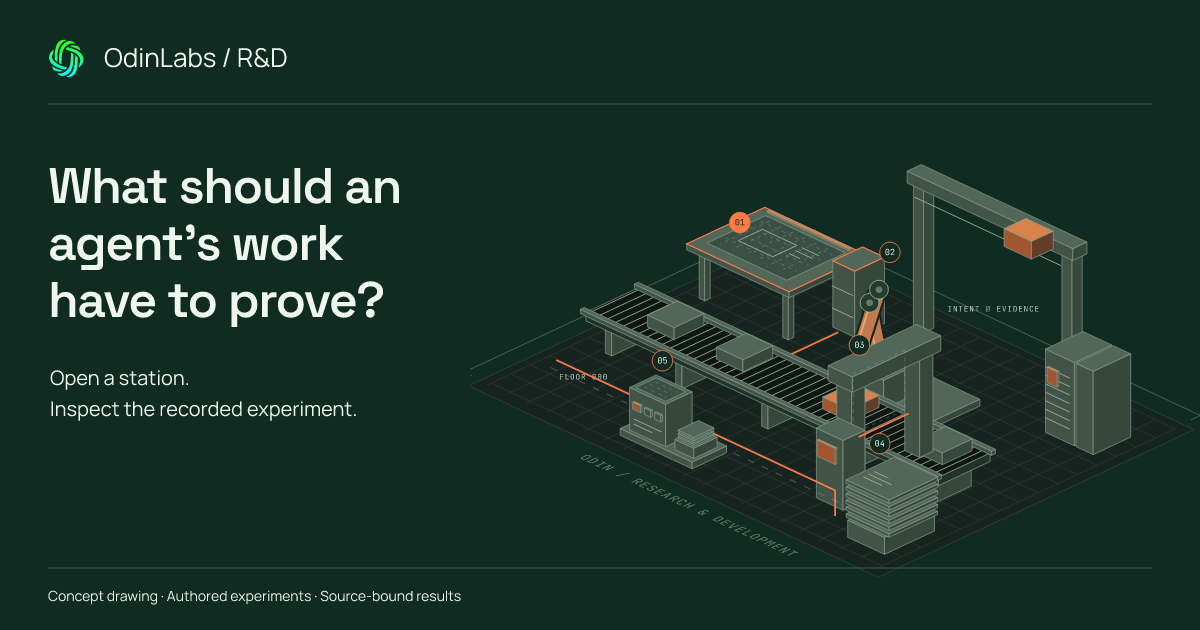
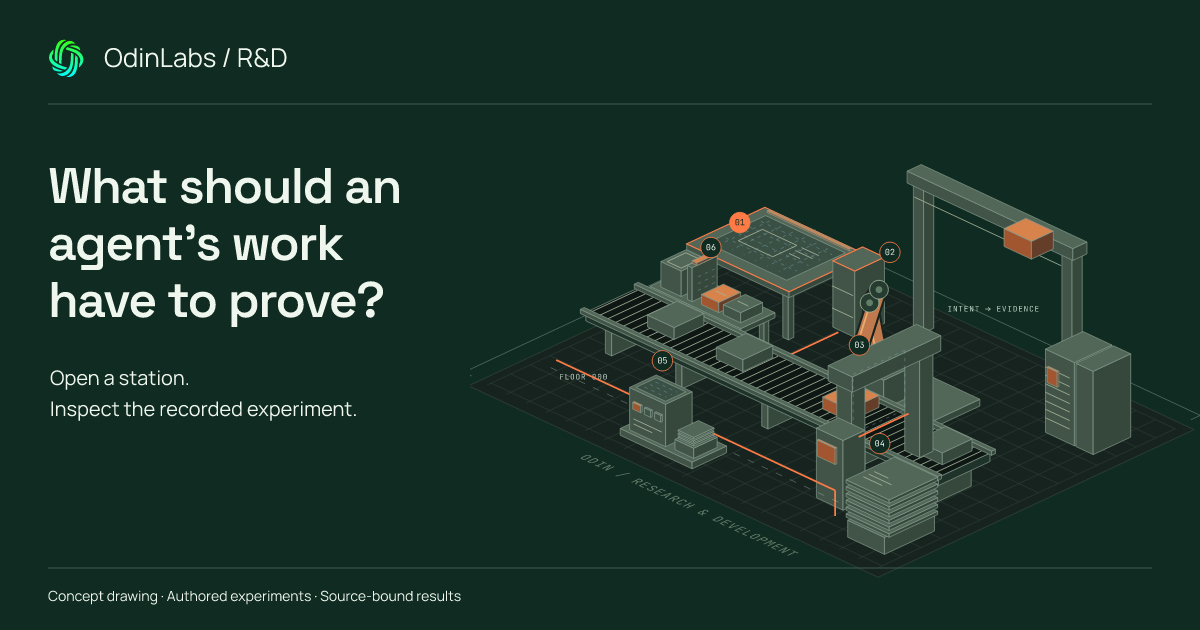
fix(og): draw the drawing's arrow on the social card, with six stations
The bundled font subsets have no U+2192 and the renderer skips system fonts, so
the card showed a missing-glyph box in "INTENT → EVIDENCE". The generator now
draws each arrow as a path in its own monospace cell (no font added, so no new
licence), keeps skip_system_fonts, and the card is regenerated with station 06.

Changed region(s): [[0.5242, 0.3619, 0.6475, 0.5429]]

diff --git a/scripts/generate-social.py b/scripts/generate-social.py
@@ -27,6 +27,25 @@ for selector, declarations in re.findall(r'([^{}]+)\{([^{}]+)\}', css):
 geometry = subprocess.check_output(['node','--input-type=module','-e',"import {factoryFloor} from './scripts/floor.mjs'; process.stdout.write(factoryFloor());"], cwd=root, text=True)
 geometry = geometry.replace('<svg ', '<svg x="470" y="150" width="735" height="459" ', 1)
 geometry = re.sub(r'<path class="station-trace"[^>]+/>','',geometry)
+# The bundled font subsets have no U+2192, and system fonts are skipped for reproducibility, so each
+# arrow in the drawing's mono labels is drawn as a path in its own character cell.
+mono = TTFont(root / 'site/assets/fonts/JetBrainsMono-Variable.woff2')
+advance = mono['hmtx']['space'][0] / mono['head'].unitsPerEm
+label = dict(re.findall(r'([\w-]+):([^;]+)', re.search(r'\.factory-svg text\{([^}]+)\}', css)[1]))
+size, spacing = float(label['font-size'].removesuffix('px')), float(label['letter-spacing'].removesuffix('px'))
+def draw_arrows(match):
+    x, y, text = float(match[1]), float(match[2]), match[3]
+    cell = size * advance + spacing
+    paths = ''.join(f'<path d="M{x + i * cell:.2f} {y - size * .32:.2f}h{size * .6:.2f}m-{size * .24:.2f} -{size * .22:.2f}l{size * .24:.2f} {size * .22:.2f}l-{size * .24:.2f} {size * .22:.2f}" fill="none" stroke="{variables["--steel"]}" stroke-width=".9" stroke-linecap="round" stroke-linejoin="round"/>' for i, char in enumerate(text) if char == '→')
+    # SVG collapses and trims spaces, so each run of text between arrows gets its own cell-aligned x.
+    runs, start = [], 0
+    for part in text.split('→'):
+        lead = len(part) - len(part.lstrip(' '))
+        if part.strip(): runs.append(f'<text class="" x="{x + (start + lead) * cell:.2f}" y="{y}">{part.strip()}</text>')
+        start += len(part) + 1
+    return ''.join(runs) + paths
+geometry = re.sub(r'<text class="" x="([\d.]+)" y="([\d.]+)">([^<]*→[^<]*)</text>', draw_arrows, geometry)
+assert '→' not in geometry, 'An arrow the card cannot draw is left in the drawing'
 logo = (root / 'site/assets/odin-logo.svg').read_text().replace('<svg ', '<svg x="48" y="36" width="40" height="44" ',1)
 svg = f'''<svg xmlns="http://www.w3.org/2000/svg" width="1200" height="630" viewBox="0 0 1200 630">
 <style>{''.join(styles)} text{{font-family:'Manrope';fill:#eef6ed}} .headline{{font-family:'Space Grotesk';font-weight:600;font-size:50px;letter-spacing:-1.5px}}</style>
